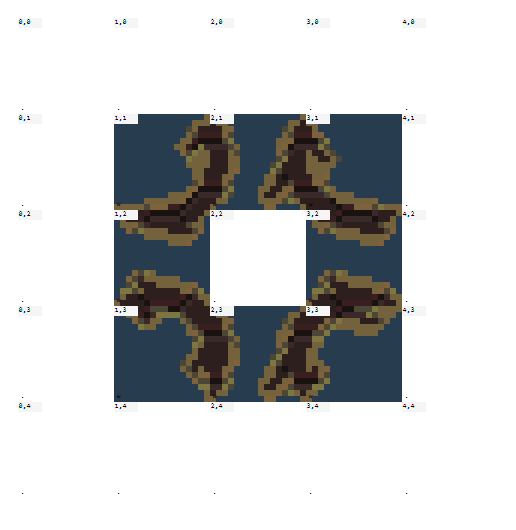
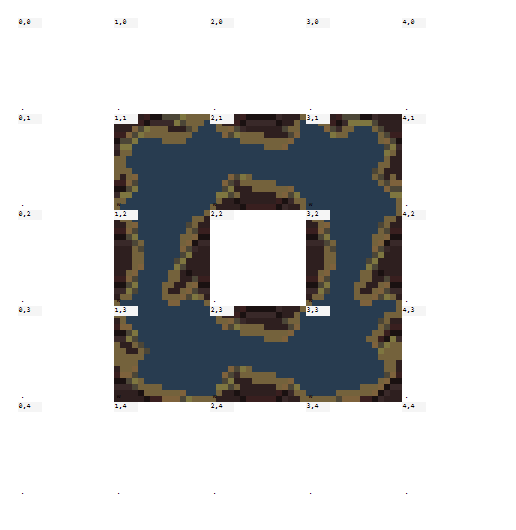
BUG1 水边缘：修正图集帧序（15-t）与相邻水格缝合判定

Changed region(s): [[0.2171, 0.2113, 0.8062, 0.7849]]

diff --git a/core/src/java/pd/tiles/SpsWaterEdgesTilemap.java b/core/src/java/pd/tiles/SpsWaterEdgesTilemap.java
@@ -53,7 +53,11 @@ public class SpsWaterEdgesTilemap extends DungeonTilemap {
 		if (unstitchable(pos + PathFinder.CIRCLE4[1])) t += 2;
 		if (unstitchable(pos + PathFinder.CIRCLE4[2])) t += 4;
 		if (unstitchable(pos + PathFinder.CIRCLE4[3])) t += 8;
-		return t;
+		//SPS: sps_water_edges_* 图集的帧序与位权【相反】——实测（tools/probe-water-edge-frames.ps1）：
+		//  f0 = 上右下左(全)   f1 = 右+下+左   f2 = 上+下+左   f8 = 上+右+下
+		//  f14 = 上            f15 = 无边缘(全透明)
+		//而位权 t 里"置位"表示该方向有边缘，故帧号 = 15 - t。
+		return 15 - t;
 	}
 
 	@Override
@@ -69,7 +73,9 @@ public class SpsWaterEdgesTilemap extends DungeonTilemap {
 	private boolean unstitchable(int pos) {
 		if (pos < 0 || pos >= map.length) return true;
 		int t = map[pos];
-		if (t == Terrain.WATER) return true;
+		//SPS: 水与水之间不画边缘 —— 相邻水格可缝合。原版把 WATER 也标了 UNSTITCHABLE
+		//是因为它共用 48-63 段水位图集；本图集是独立的边缘层，水中心要留空。
+		if (t == Terrain.WATER) return false;
 		if ((Terrain.flags[t] & Terrain.SOLID) != 0) return true;
 		switch (t) {
 			case Terrain.CHASM:
